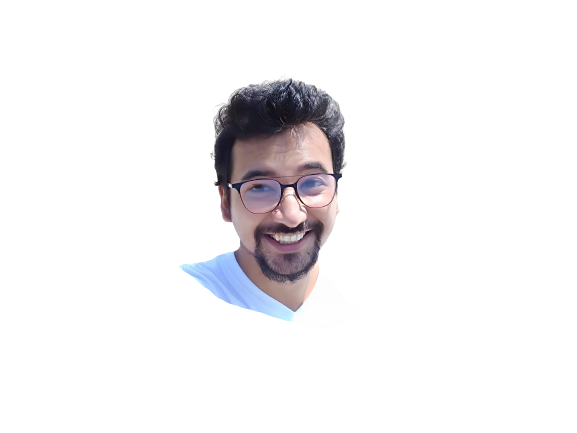
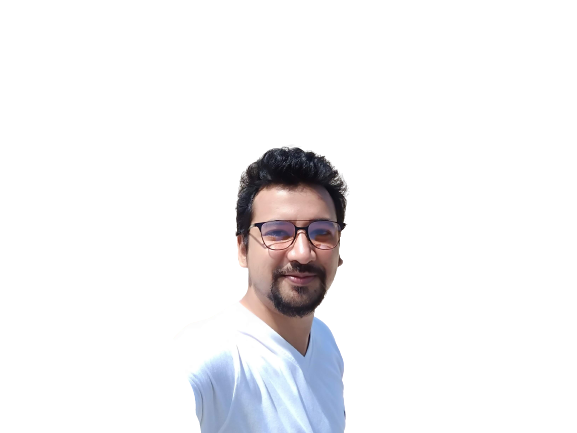
changed home image

Changed region(s): [[0.312, 0.1801, 0.6239, 1.0]]

diff --git a/index.html b/index.html
@@ -99,7 +99,7 @@
                                     165.547 130.807 187.559 100.226 186.353C69.6454 185.297 41.0228 161.023 21.7403 
                                     129.362C2.45775 97.8511 -7.48481 59.1033 6.67581 34.5279C20.9871 10.1032 59.7028 
                                     -0.149132 97.9666 0.00163737C136.23 0.303176 174.193 10.857 190.312 36.4879Z"/>
-                                    <image class="home__blob-img" x='-95' y="-30" href="assets/img/top-removebg.png"/>
+                                    <image class="home__blob-img" x='-95' y="-80" href="assets/img/top-removebg.png"/>
                                 </g>
                             </svg>
                         </div>
@@ -699,7 +699,7 @@
 
                             <div>
                                 <h3 class="contact__title">Call Me</h3>
-                                <span class="contact__subtitle">123-456-789-0</span>
+                                <span class="contact__subtitle">9011146770</span>
                             </div>
                         </div>
 
